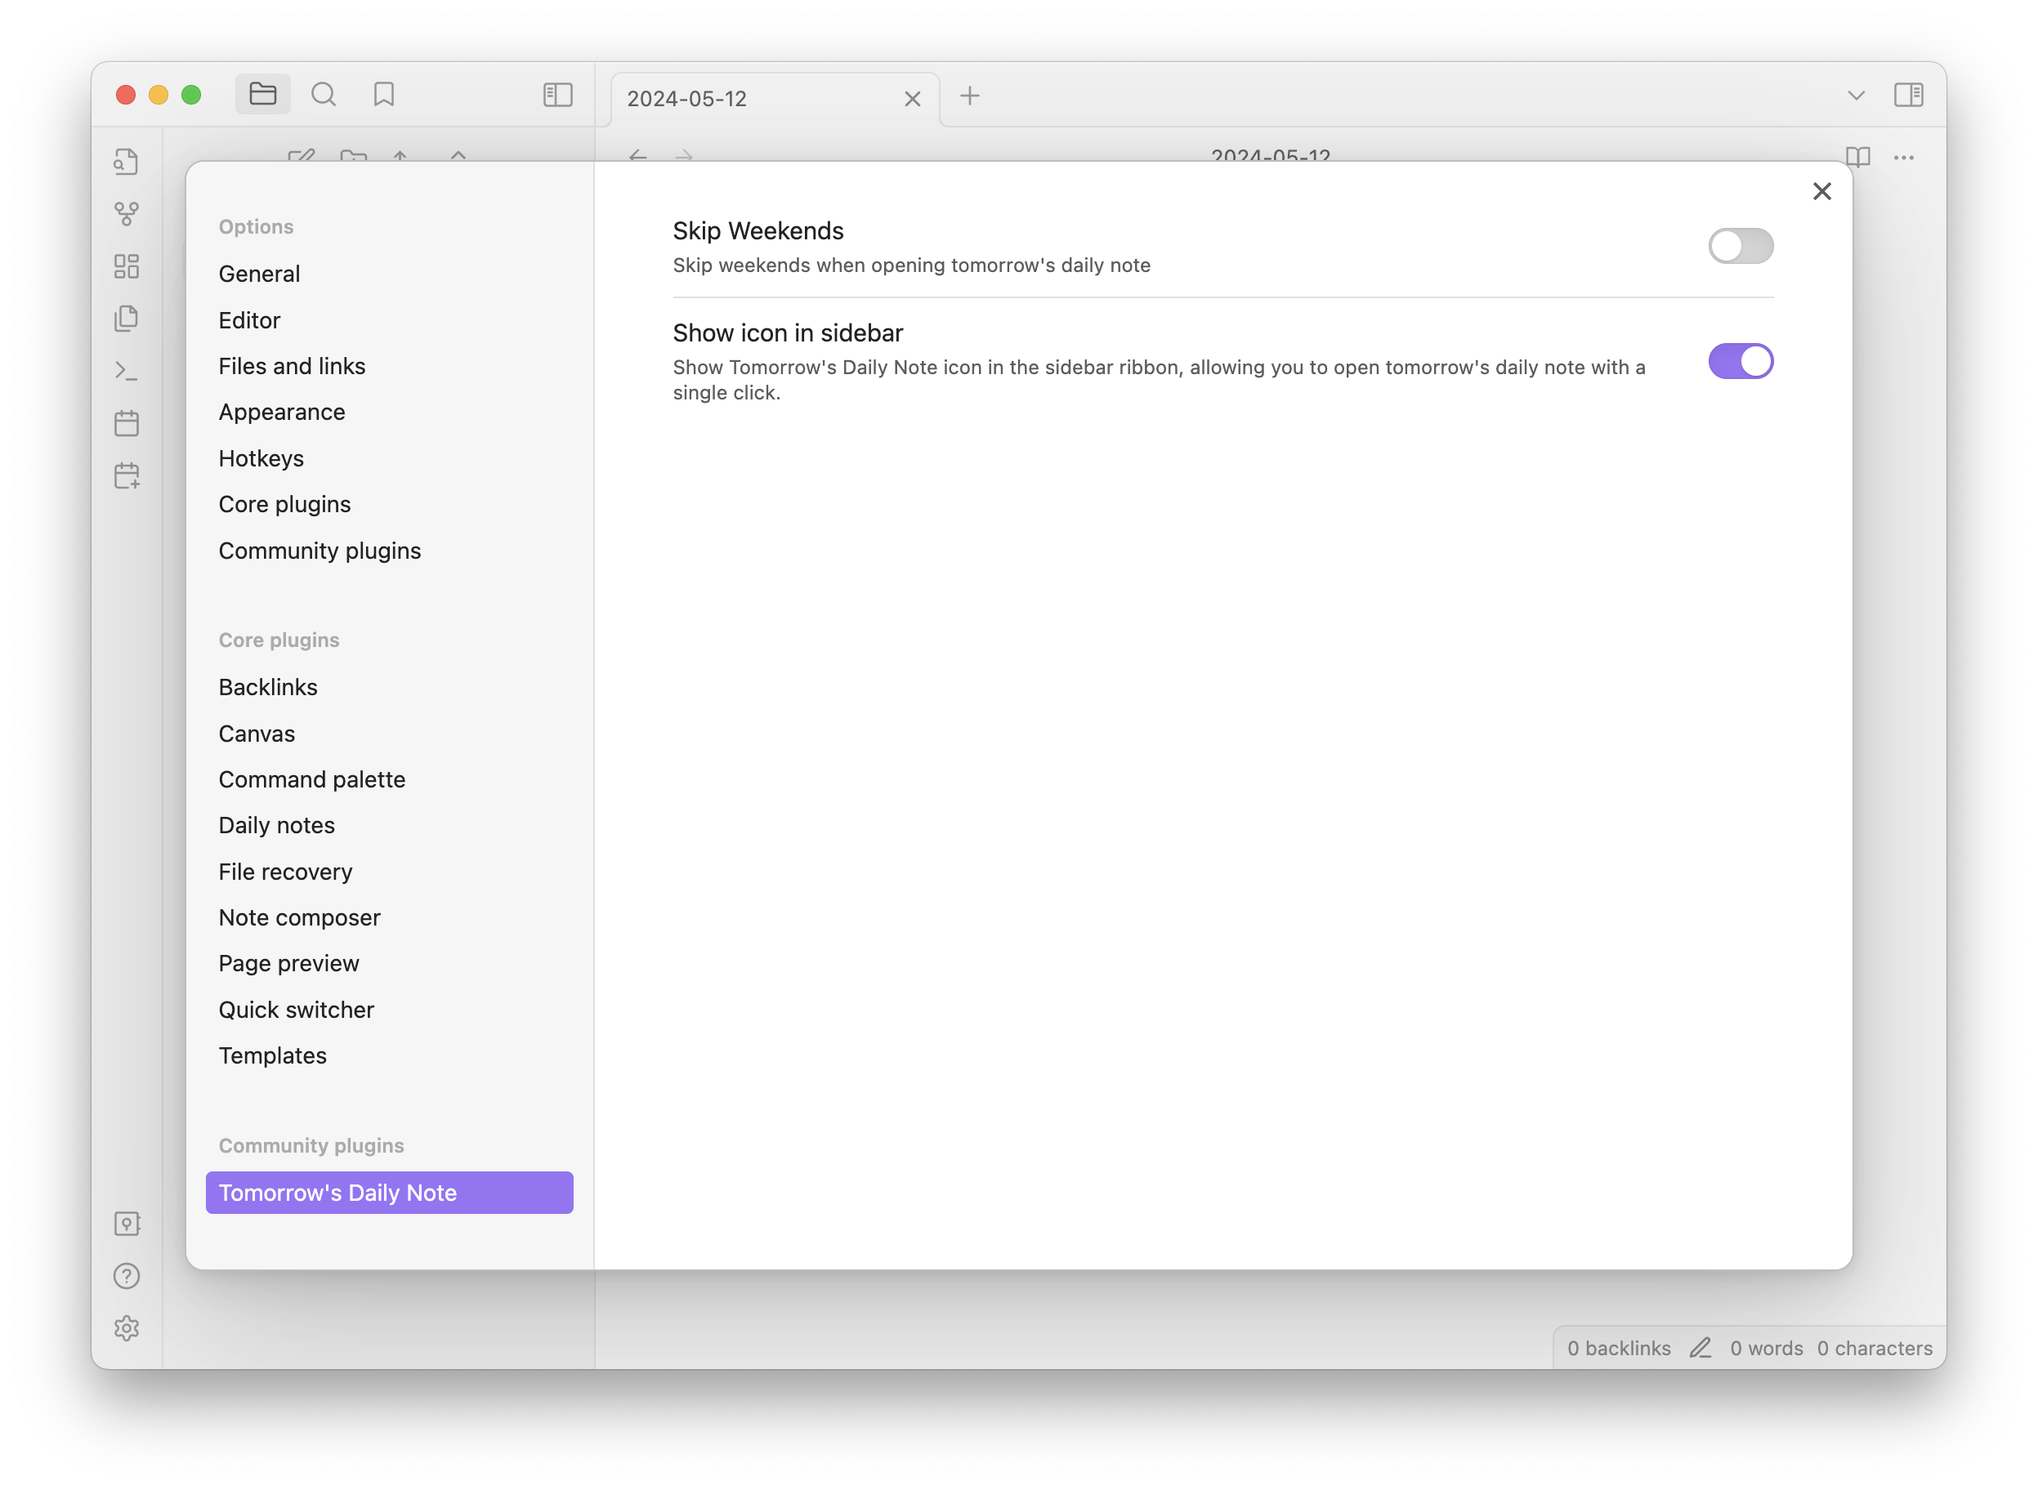
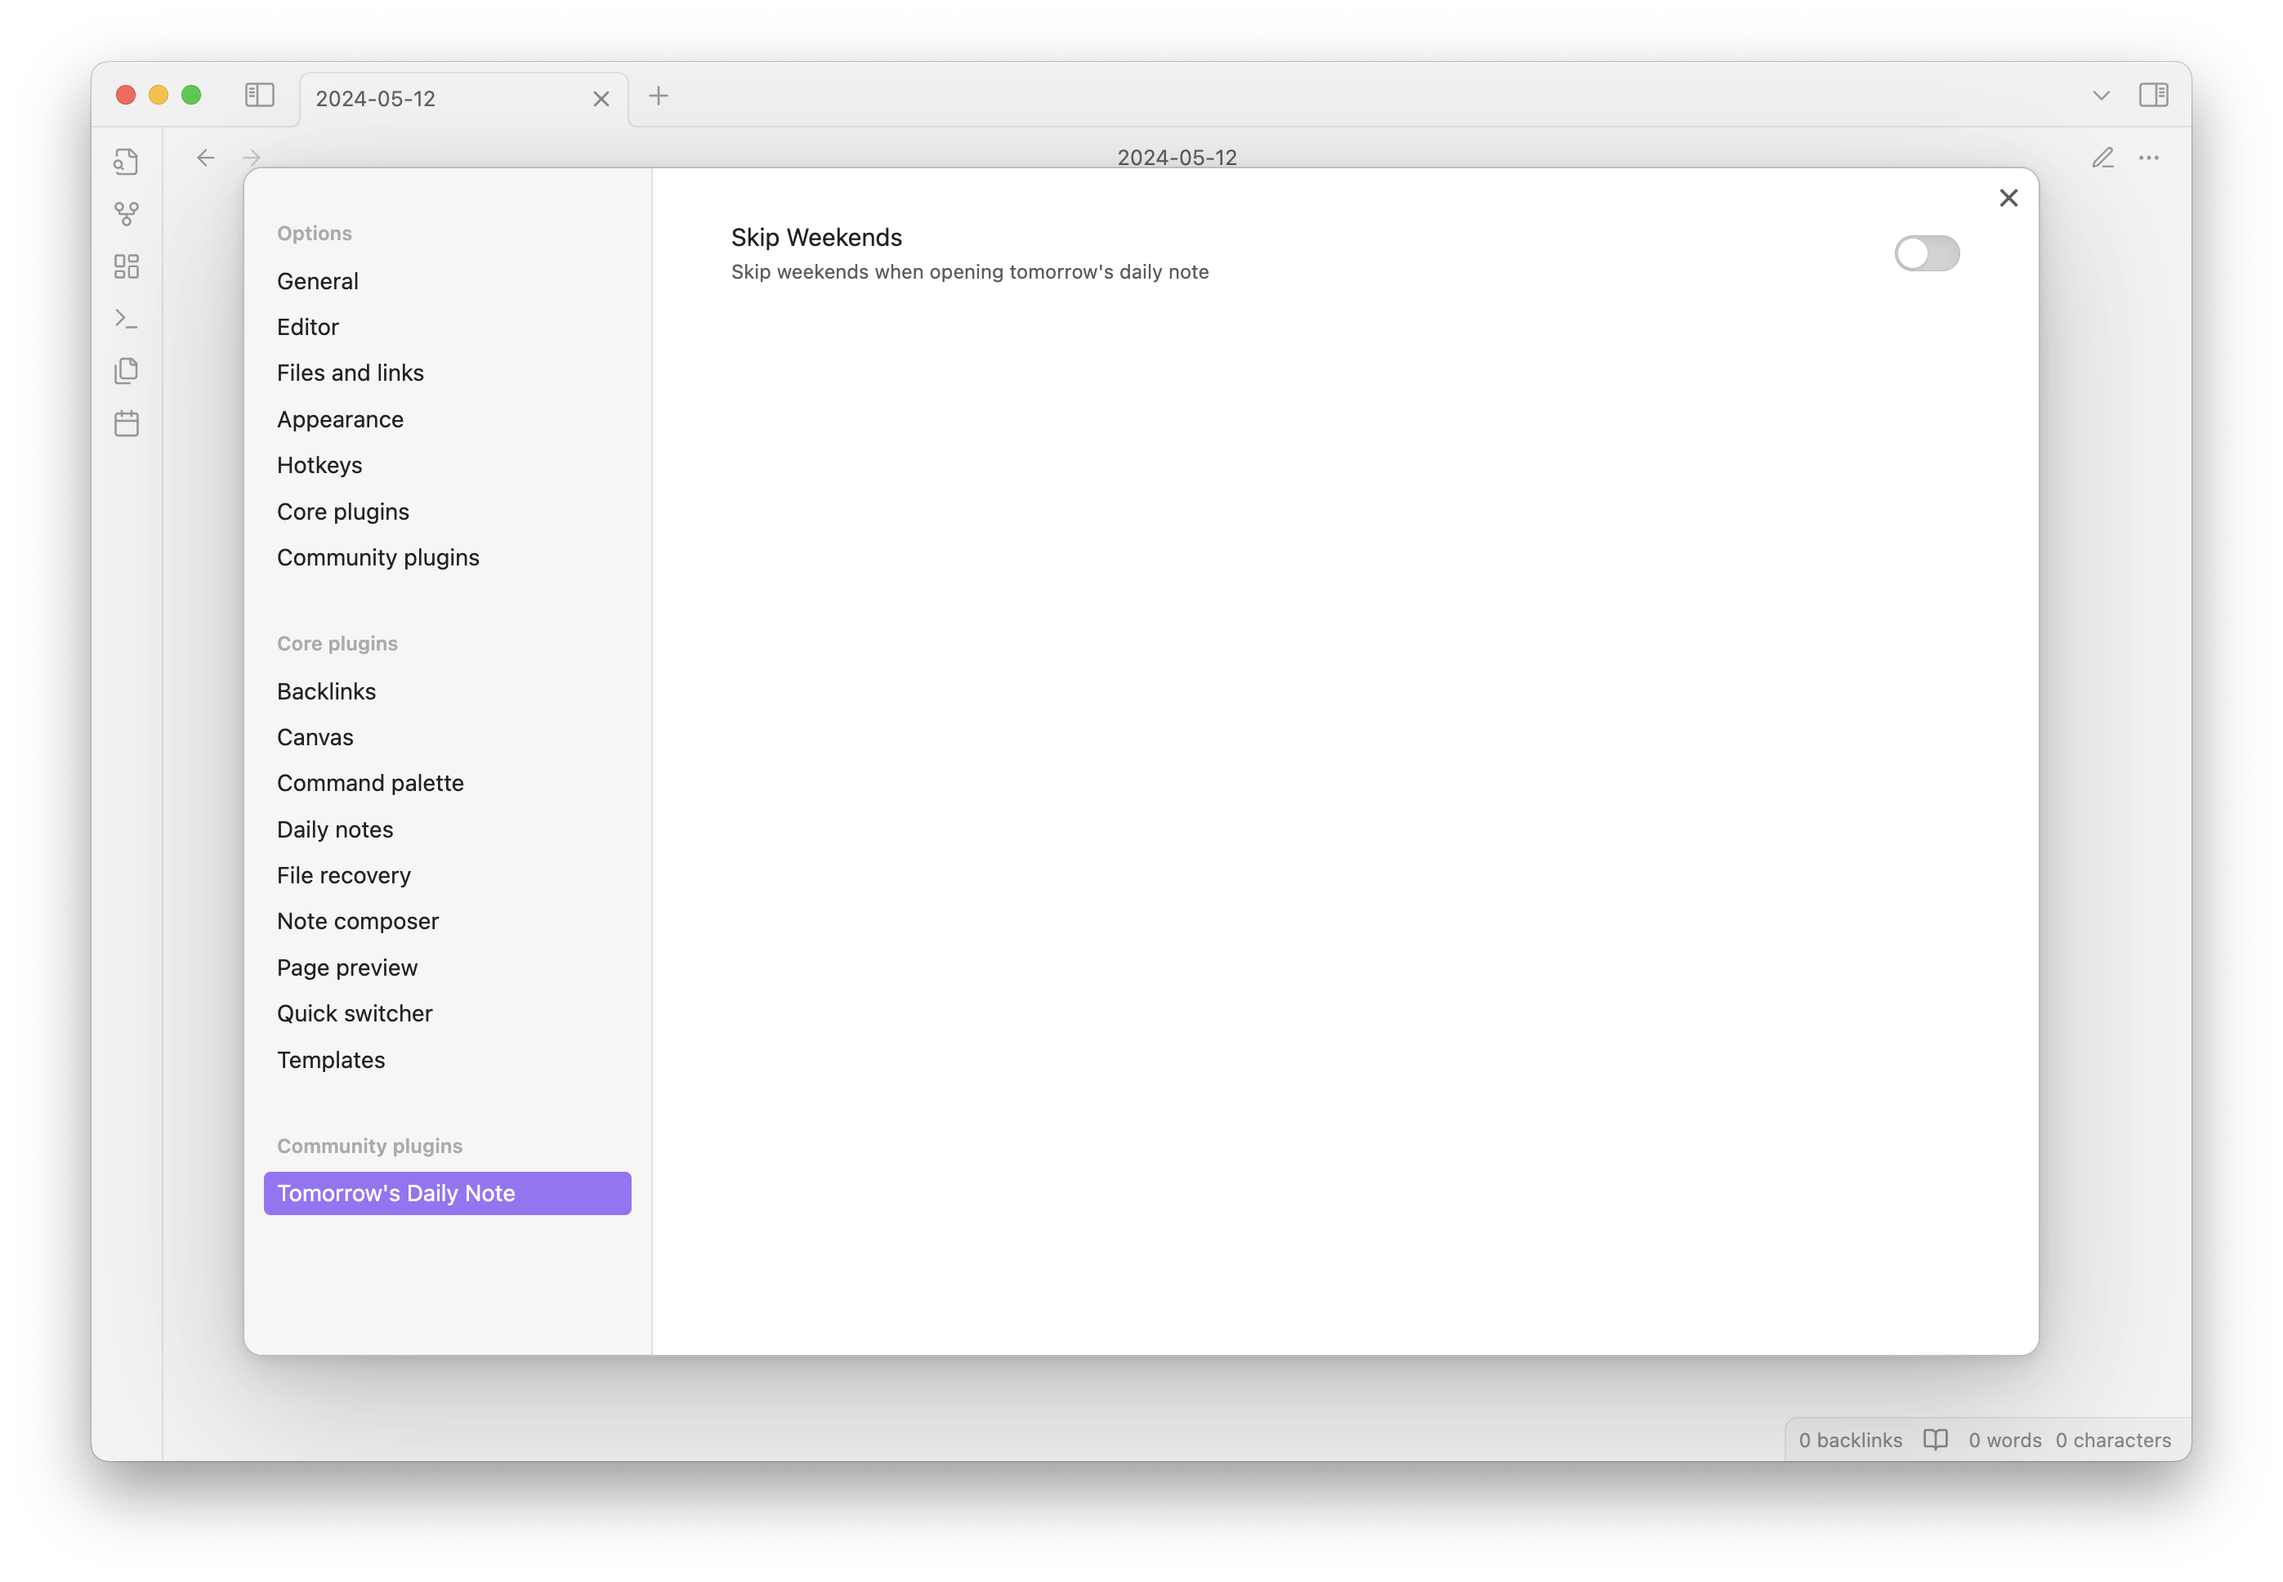
Update Changelog and versions for fix

diff --git a/CHANGELOG.md b/CHANGELOG.md
@@ -5,6 +5,12 @@ All notable changes to this project will be documented in this file.
 The format is based on [Keep a Changelog](https://keepachangelog.com/en/1.1.0/),
 and this project adheres to [Semantic Versioning](https://semver.org/spec/v2.0.0.html).
 
+## [1.3.0] - 2025-03-10
+
+### Removed
+
+- Removed the `Show icon in sidebar` setting. This is now [a built-in feature of Obsidian](https://obsidian.md/changelog/2022-12-05-desktop-v1.1.0/).
+
 ## [1.2.1]
 
 ### Fixed

diff --git a/README.md b/README.md
@@ -22,7 +22,6 @@ You can open tomorrow's daily note using ribbon icon or the following command: `
 You can configure the following settings from the plugin settings menu:
 
 - **Skip Weekends**: If enabled, the plugin will skip weekends when creating tomorrow's daily note.
-- **Show icon in sidebar**: If enabled, the plugin will show an icon in the sidebar for easy access to tomorrow's daily note.
 
 ![Tomorrow's Daily Note Settings](/docs/images/settings-preview.png)
 
